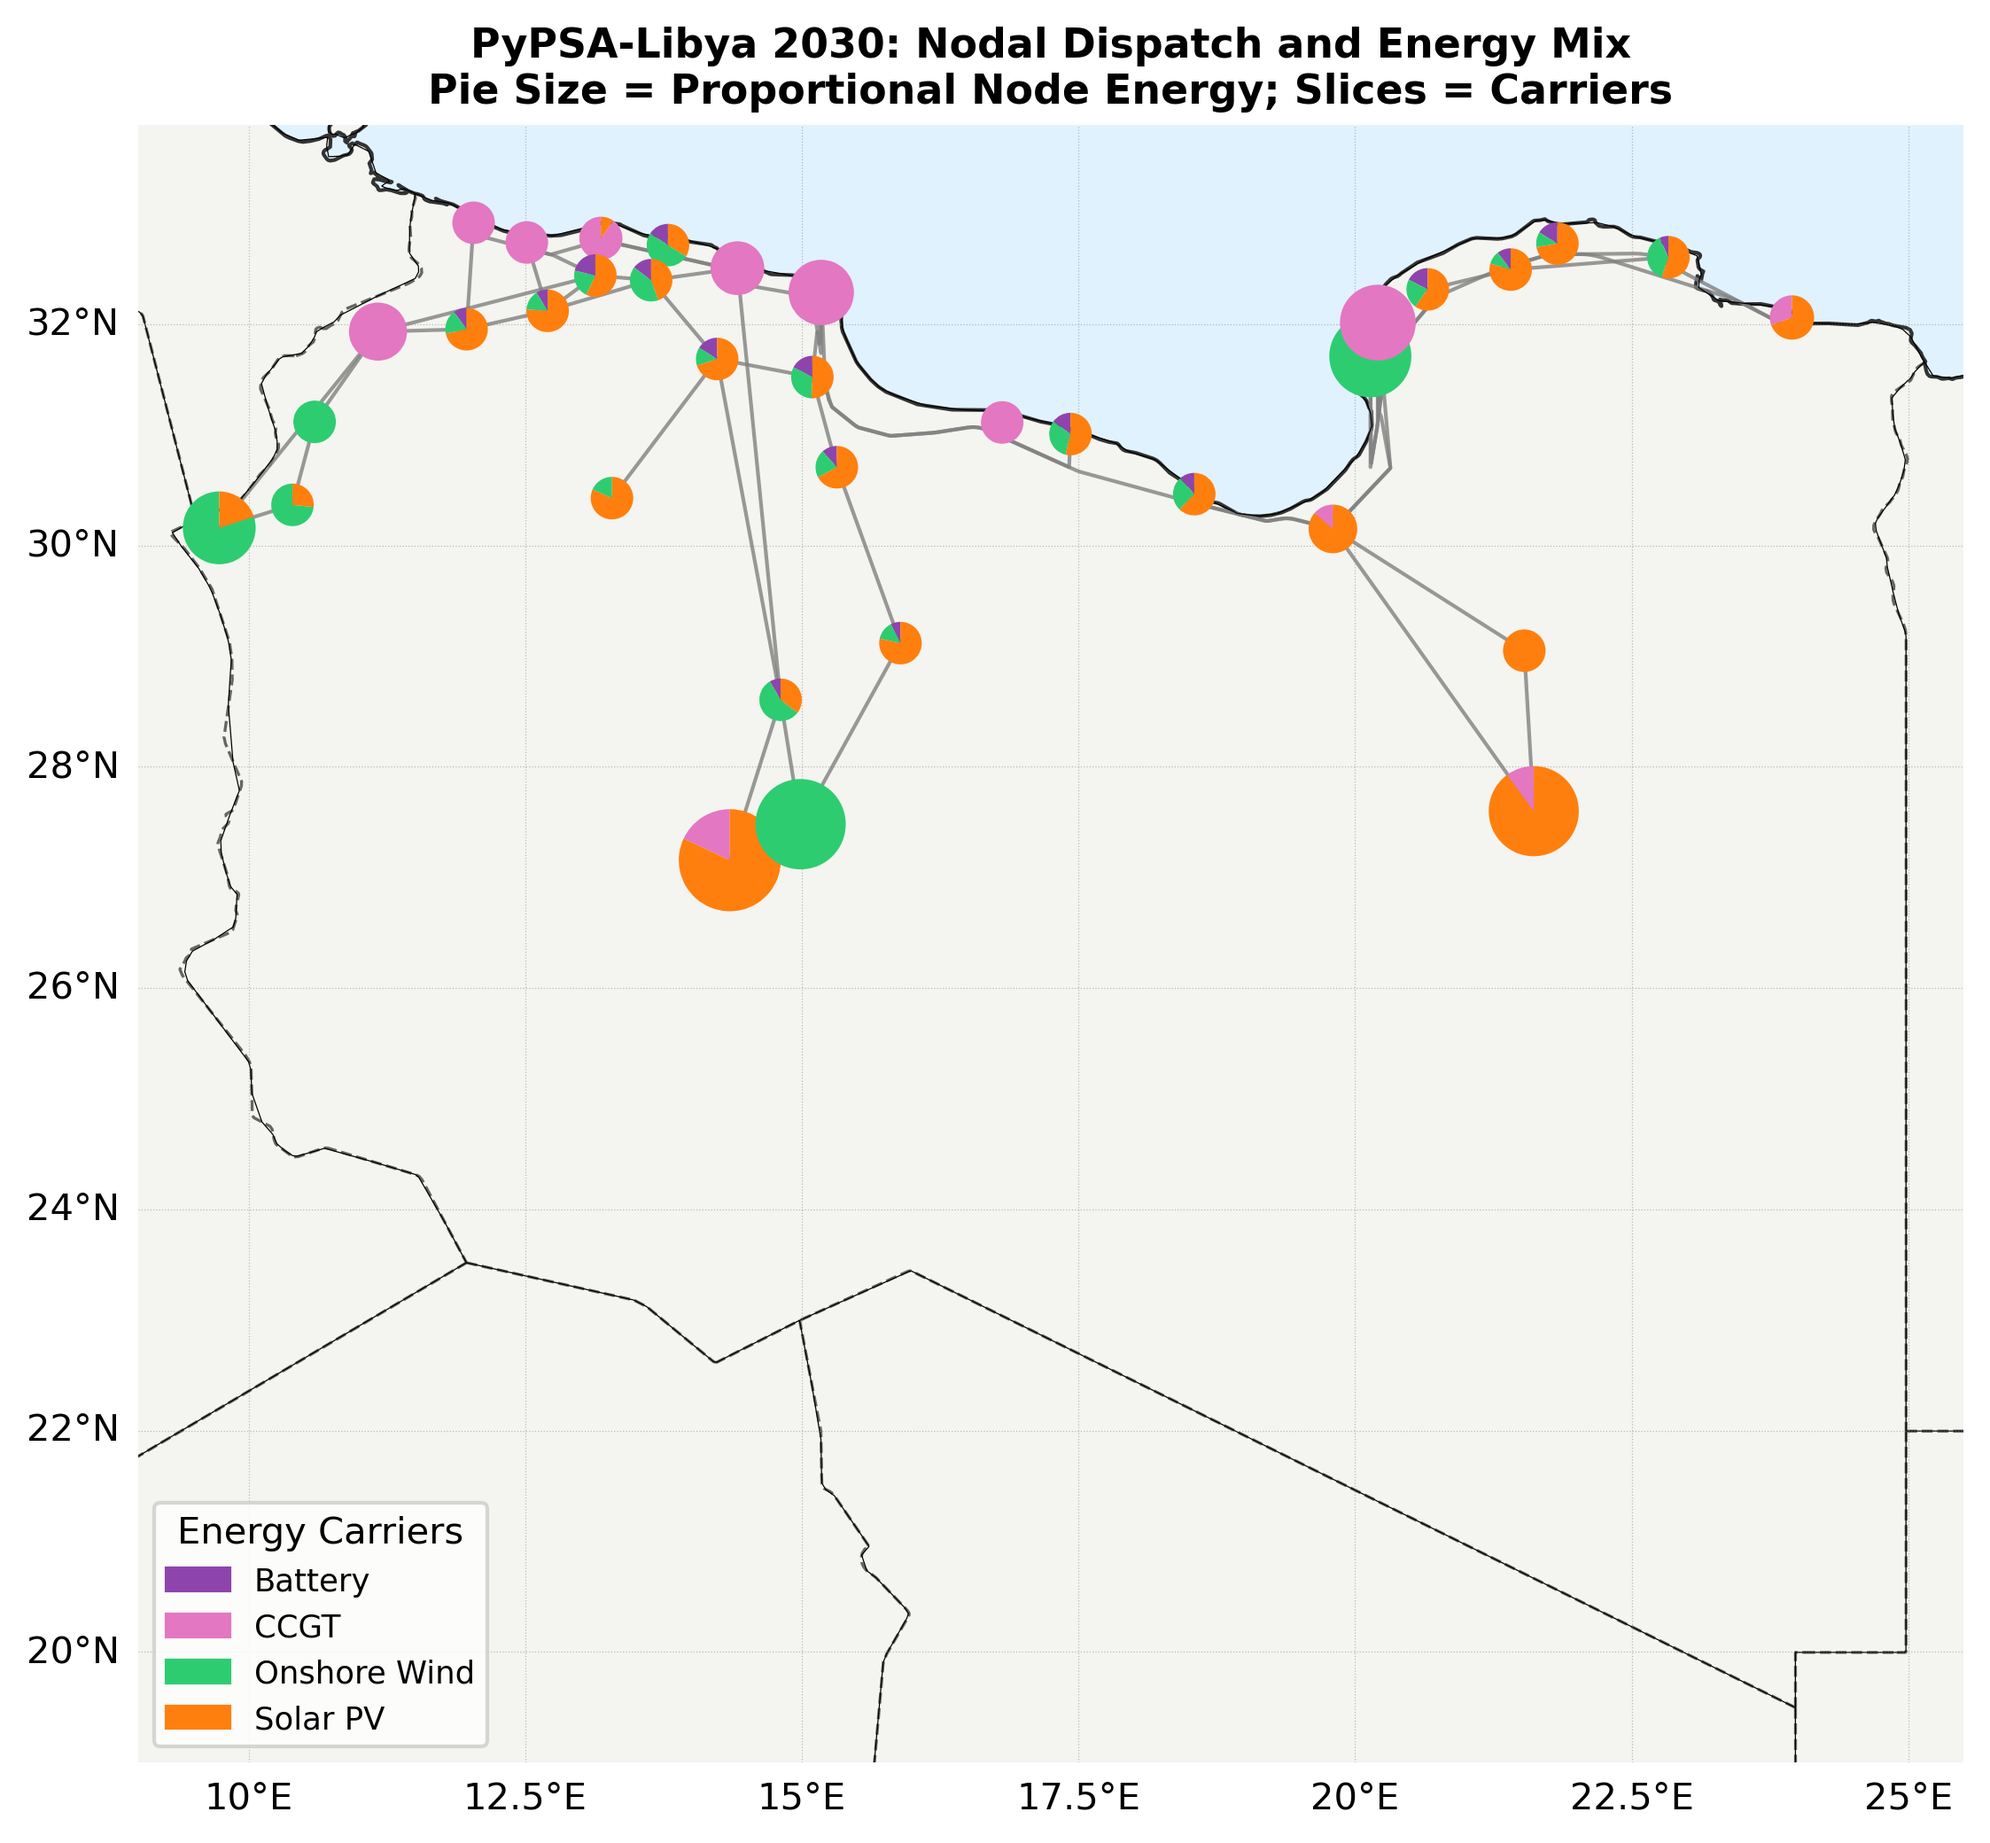
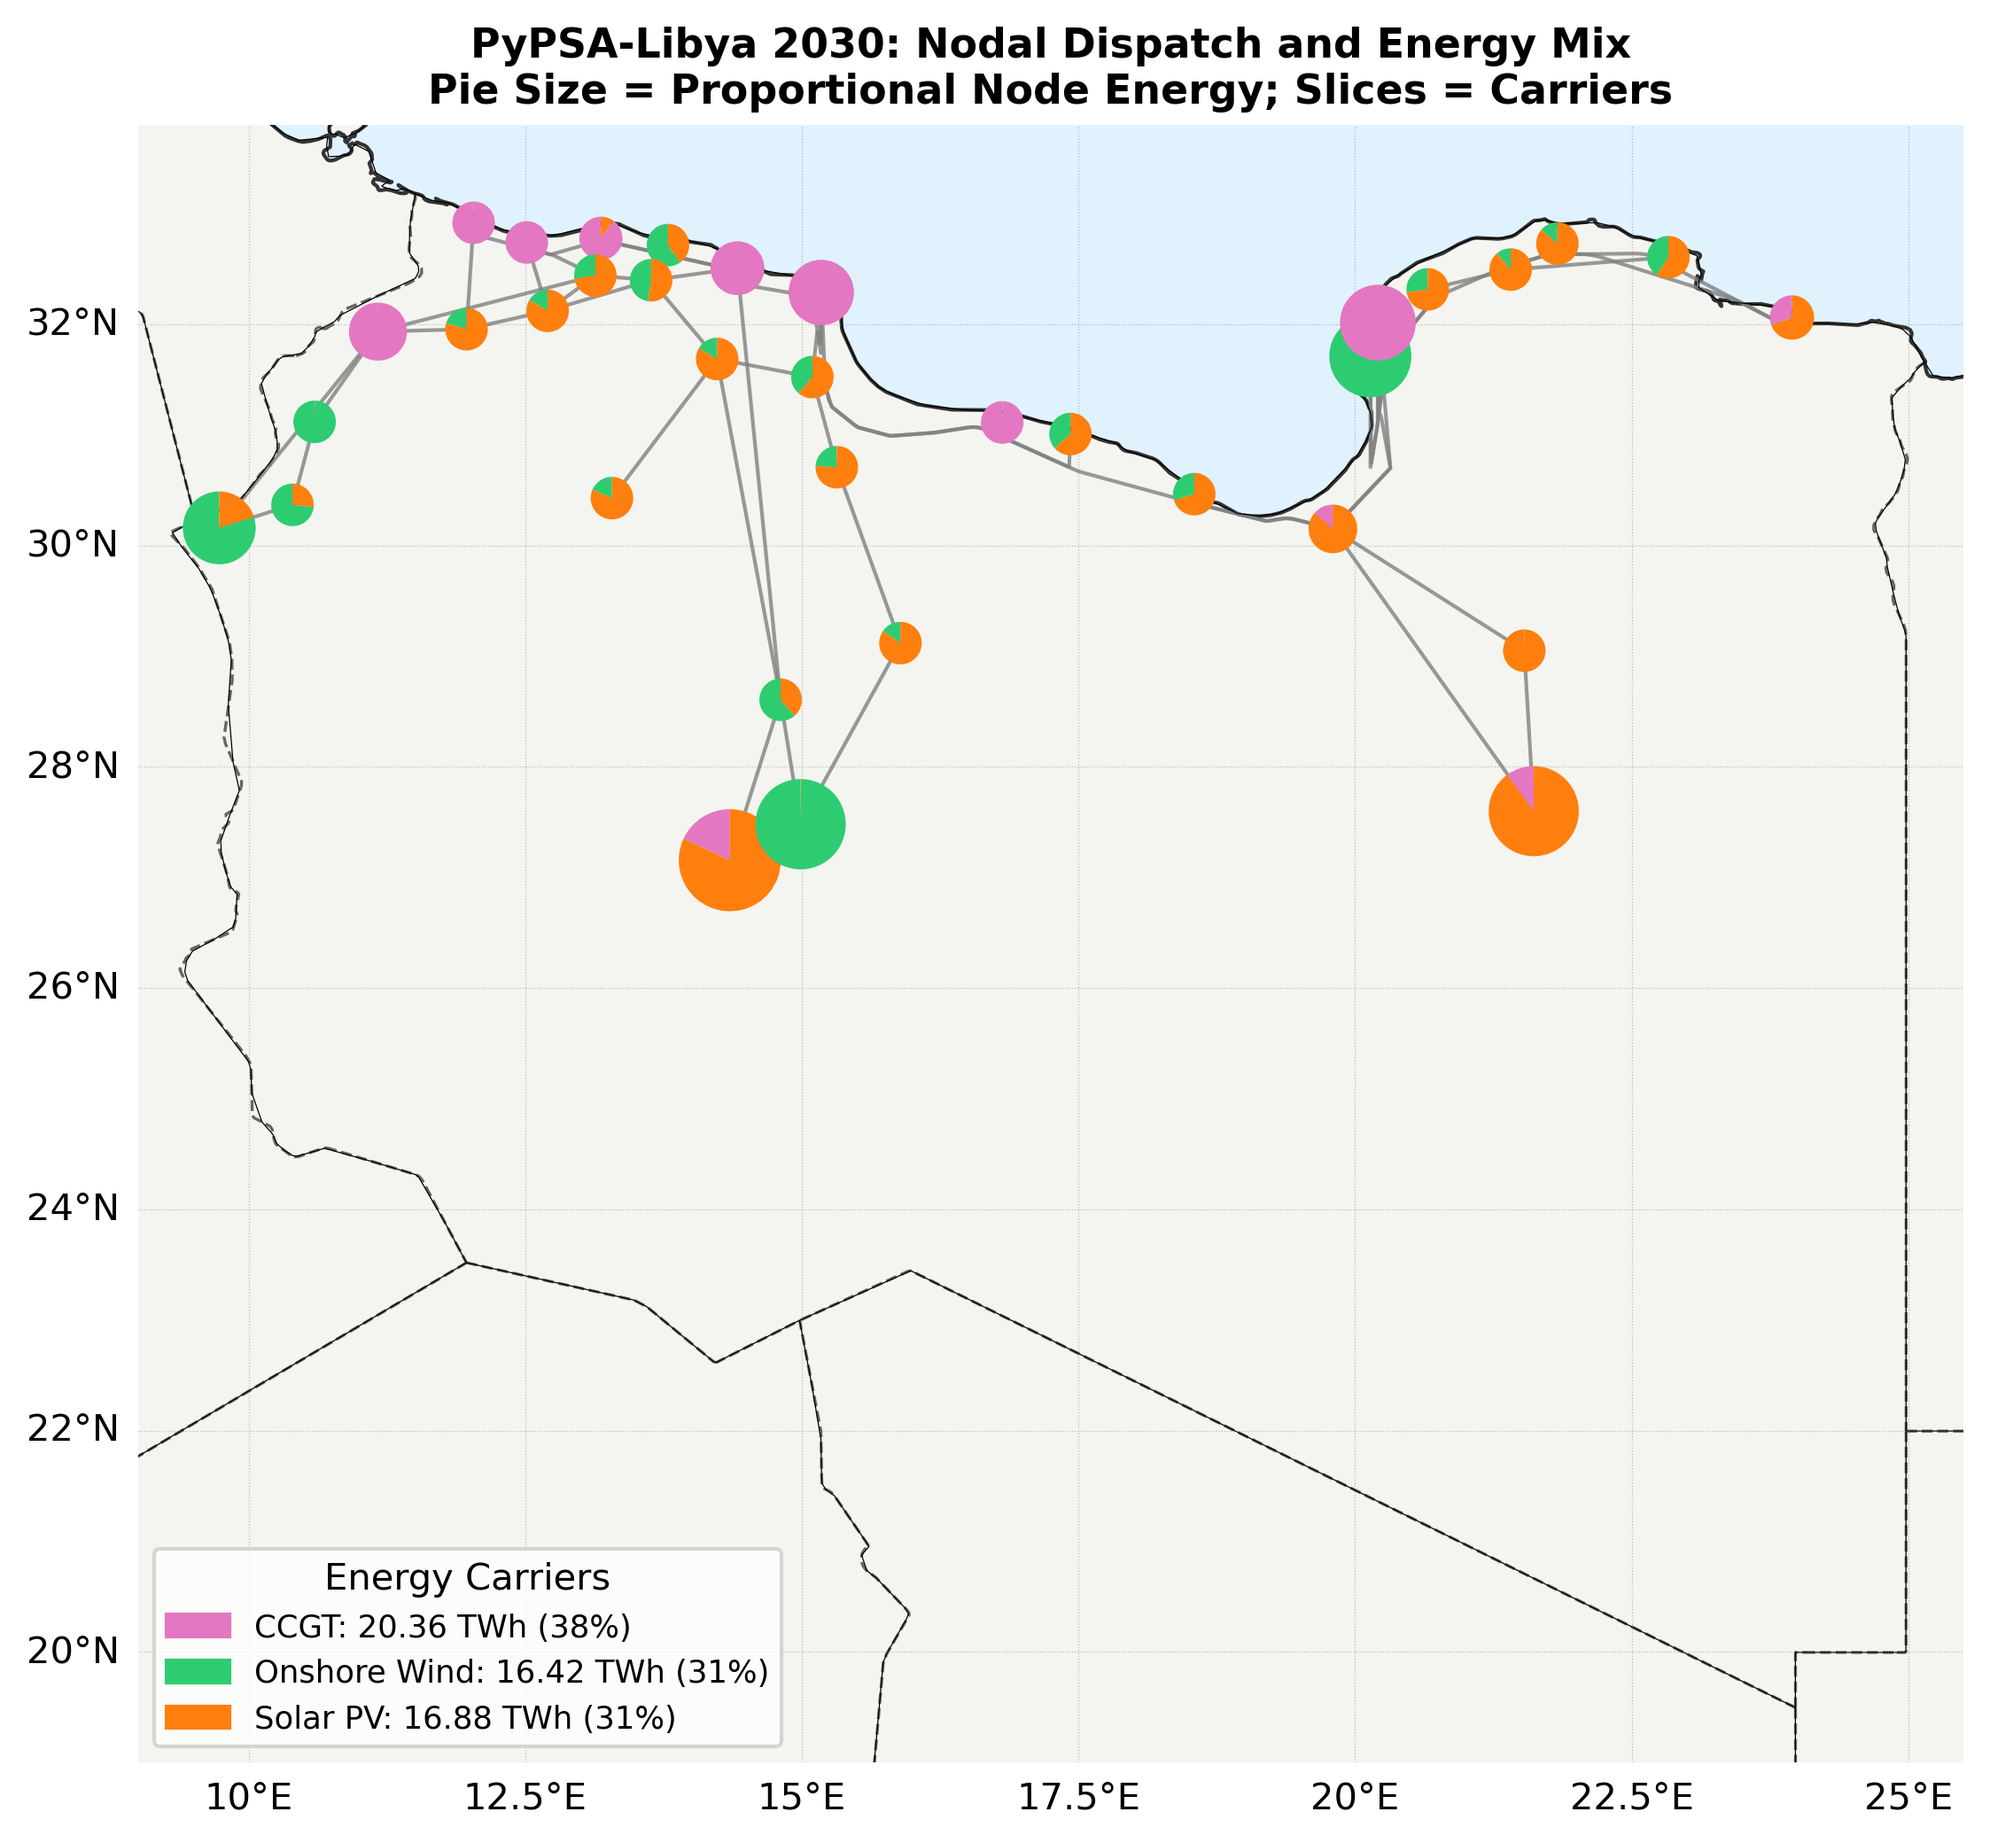
Add files via upload

diff --git a/viz_outputs/Validate_Energy_Conservation_All_Carriers/validate_all_carriers_energy_conservation.py b/viz_outputs/Validate_Energy_Conservation_All_Carriers/validate_all_carriers_energy_conservation.py
@@ -606,6 +606,7 @@ if __name__ == "__main__":
         
 
 
+
 # =====================================================================
 # SECTION 8: NODAL DISPATCH & ENERGY MIX PIE CHART MAP
 # =====================================================================
@@ -707,7 +708,10 @@ if not n.links.empty and not n.links_t.p0.empty:
 if all_nodal_records:
     df_raw = pd.DataFrame(all_nodal_records)
     
-    target_keywords = ["solar", "wind", "ccgt", "cogt", "oil", "battery", "fuel cell", "eletrolyser", "electrolyser", "h2-turbine", "h2 turbine", "smr", "smr-cc"]
+    # target_keywords = ["solar", "wind", "ccgt", "cogt", "oil", "gas", "battery", "fuel cell", "eletrolyser", "electrolyser", "h2-turbine", "h2 turbine", "smr", "smr-cc"]
+    # exclude_keywords = ["load", "grid", "distribution", "charger", "store", "vent", "cracker", "haber-bosch", "helmeth", "fischer-tropsch", "sabatier"]
+    
+    target_keywords = ["solar", "wind", "ccgt", "cogt", "oil", "gas", "battery", "fuel cell", "eletrolyser", "electrolyser", "h2-turbine", "h2 turbine", "smr", "smr-cc"]
     exclude_keywords = ["load", "grid", "distribution", "charger", "store", "vent", "cracker", "haber-bosch", "helmeth", "fischer-tropsch", "sabatier"]
     
     def is_target_element(label):
@@ -749,6 +753,29 @@ if all_nodal_records:
     nodal_mix = df_filtered.pivot_table(index="bus", columns="carrier_key", values="energy", aggfunc="sum", fill_value=0.0)
 else:
     nodal_mix = pd.DataFrame(index=ac_buses)
+
+# Globally filter out carriers with less than 2% system-wide share
+total_energy_all = nodal_mix.sum().sum() if not nodal_mix.empty else 0.0
+if not nodal_mix.empty and total_energy_all > 0:
+    global_percentages = (nodal_mix.sum() / total_energy_all) * 100.0
+    valid_carriers = global_percentages[global_percentages >= 2.0].index
+    nodal_mix = nodal_mix[[c for c in nodal_mix.columns if c in valid_carriers]]
+
+# Pre-calculate integer-rounded percentages that precisely sum to 100%
+rounded_percentages = {}
+if not nodal_mix.empty and total_energy_all > 0:
+    active_cols = sorted(list(nodal_mix.columns))
+    raw_pcts = {c: (nodal_mix[c].sum() / total_energy_all) * 100.0 for c in active_cols}
+    int_pcts = {c: int(round(p)) for c, p in raw_pcts.items()}
+    diff = 100 - sum(int_pcts.values())
+    if diff != 0:
+        # Adjust the carrier with the largest fractional remainder to ensure sum equals 100%
+        remainders = {c: raw_pcts[c] - int_pcts[c] for c in active_cols}
+        sorted_by_rem = sorted(remainders, key=remainders.get, reverse=True)
+        for i in range(abs(diff)):
+            c_target = sorted_by_rem[i % len(sorted_by_rem)]
+            int_pcts[c_target] += 1 if diff > 0 else -1
+    rounded_percentages = int_pcts
 
 # Initialize Map Axis
 fig = plt.figure(figsize=(11, 8))
@@ -856,12 +883,10 @@ for bus in ac_buses:
     if total_bus_energy <= 0:
         continue
 
-    # Filter out carriers contributing less than 2% of the node's total energy
-    percentages = (slices / total_bus_energy) * 100.0
-    filtered_slices = slices[percentages >= 2.0]
+    filtered_slices = slices[slices > 0]
 
     if filtered_slices.empty:
-        filtered_slices = slices.nlargest(1)
+        continue
 
     for c in filtered_slices.index:
         present_carriers.add(c)
@@ -883,19 +908,26 @@ for bus in ac_buses:
         ax_pie.pie(filtered_slices.values, colors=colors, startangle=90)
         ax_pie.set_aspect("equal")
 
-# Custom legend label formatter for precise capitalization and naming
+# Custom legend label formatter incorporating TWh and integer percentage
 def format_legend_label(carrier_key):
     if carrier_key == "SMR CC":
-        return "SMR+CC"
+        name = "SMR+CC"
     elif carrier_key == "SMR":
-        return "SMR"
+        name = "SMR"
     elif carrier_key == "CCGT":
-        return "CCGT"
+        name = "CCGT"
     elif carrier_key == "Solar PV":
-        return "Solar PV"
-    return str(carrier_key).title()
+        name = "Solar PV"
+    else:
+        name = str(carrier_key).title()
+        
+    energy_mwh = nodal_mix[carrier_key].sum() if not nodal_mix.empty and carrier_key in nodal_mix.columns else 0.0
+    energy_twh = energy_mwh / 1e6
+    pct = rounded_percentages.get(carrier_key, 0)
+    
+    return f"{name}: {energy_twh:,.2f} TWh ({pct}%)"
 
-# Add Legend with custom label formatting
+# Add Legend with custom label formatting including TWh and integer percentage
 legend_handles = [
     mpatches.Patch(color=CHART_COLORS.get(c, "#7f7f7f"), label=format_legend_label(c))
     for c in sorted(present_carriers)
